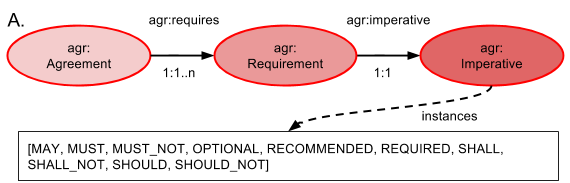
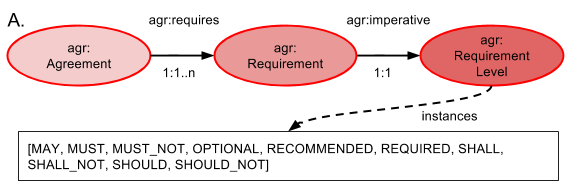
ReqLEvel

Changed region(s): [[0.7754, 0.1913, 0.9544, 0.4372]]

diff --git a/examples/what-agreements-make-agents-do.md b/examples/what-agreements-make-agents-do.md
@@ -1,9 +1,9 @@
 ## What Agreements make Agents do
 ![What Agreements make Agents do](https://github.com/nicholascar/agr-o/blob/master/examples/what-agreements-make-agents-do.png)
 
-Agreements, like Creative Commons' Licenses, require Requirements (subclass of skos:Concept) which ask actions of an Agent. Unlike CC Requirements which ["may or may not be requested of you"](http://labs.creativecommons.org/demos/ns/), the level of the Requirement (the extent to which it is imparative) is qualified by the value of an Imperative (also subclass of skos:Concept) class instance that is related to the Requirement. The Imperative instances given in this AGR-O match the keywords given in [RFC2119](http://www.ietf.org/rfc/rfc2119.txt).
+Agreements, like Creative Commons' Licenses, require Requirements (subclass of skos:Concept) which ask actions of an Agent. Unlike CC Requirements which ["may or may not be requested of you"](http://labs.creativecommons.org/demos/ns/), the level of the Requirement (the extent to which it is imparative) is qualified by the value of a RequirementLevel (also subclass of skos:Concept) class instance that is related to the Requirement. The RequirementLevel instances given in this AGR-O match the keywords given in [RFC2119](http://www.ietf.org/rfc/rfc2119.txt).
 
-Every Agreement must have at least one Requirement and every requirement can have one and only one Imperative.
+Every Agreement must have at least one Requirement and every requirement can have one and only one RequirementLevel.
 
 All of these relationships and restrictions are indicated in Figure A.
 

diff --git a/README.md b/README.md
@@ -9,7 +9,7 @@ We think of this ontology as a 'middle' ontology, that is one which specializes 
 
 ## Ontology document
 Turtle format: agr.ttl  
-HTML format: *coming soon*
+HTML format: agr.html
 
 
 ## Examples
